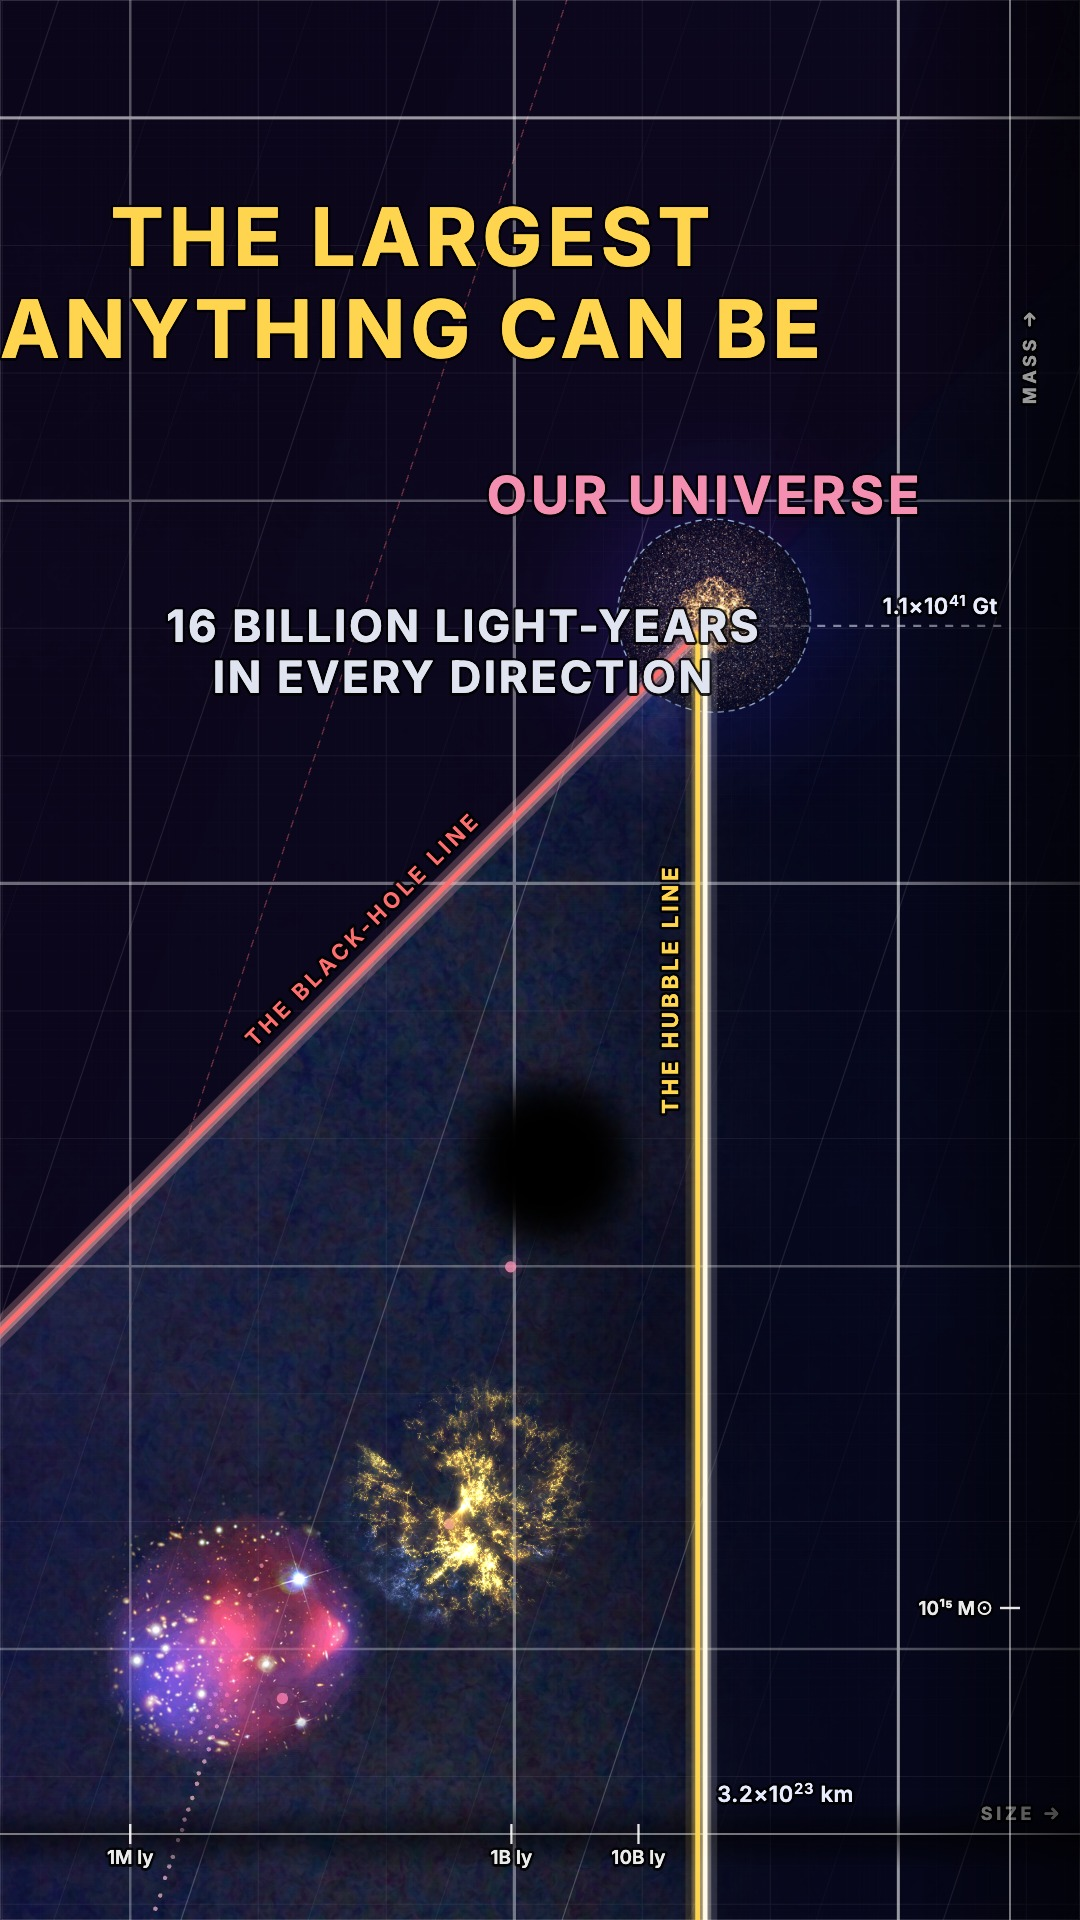
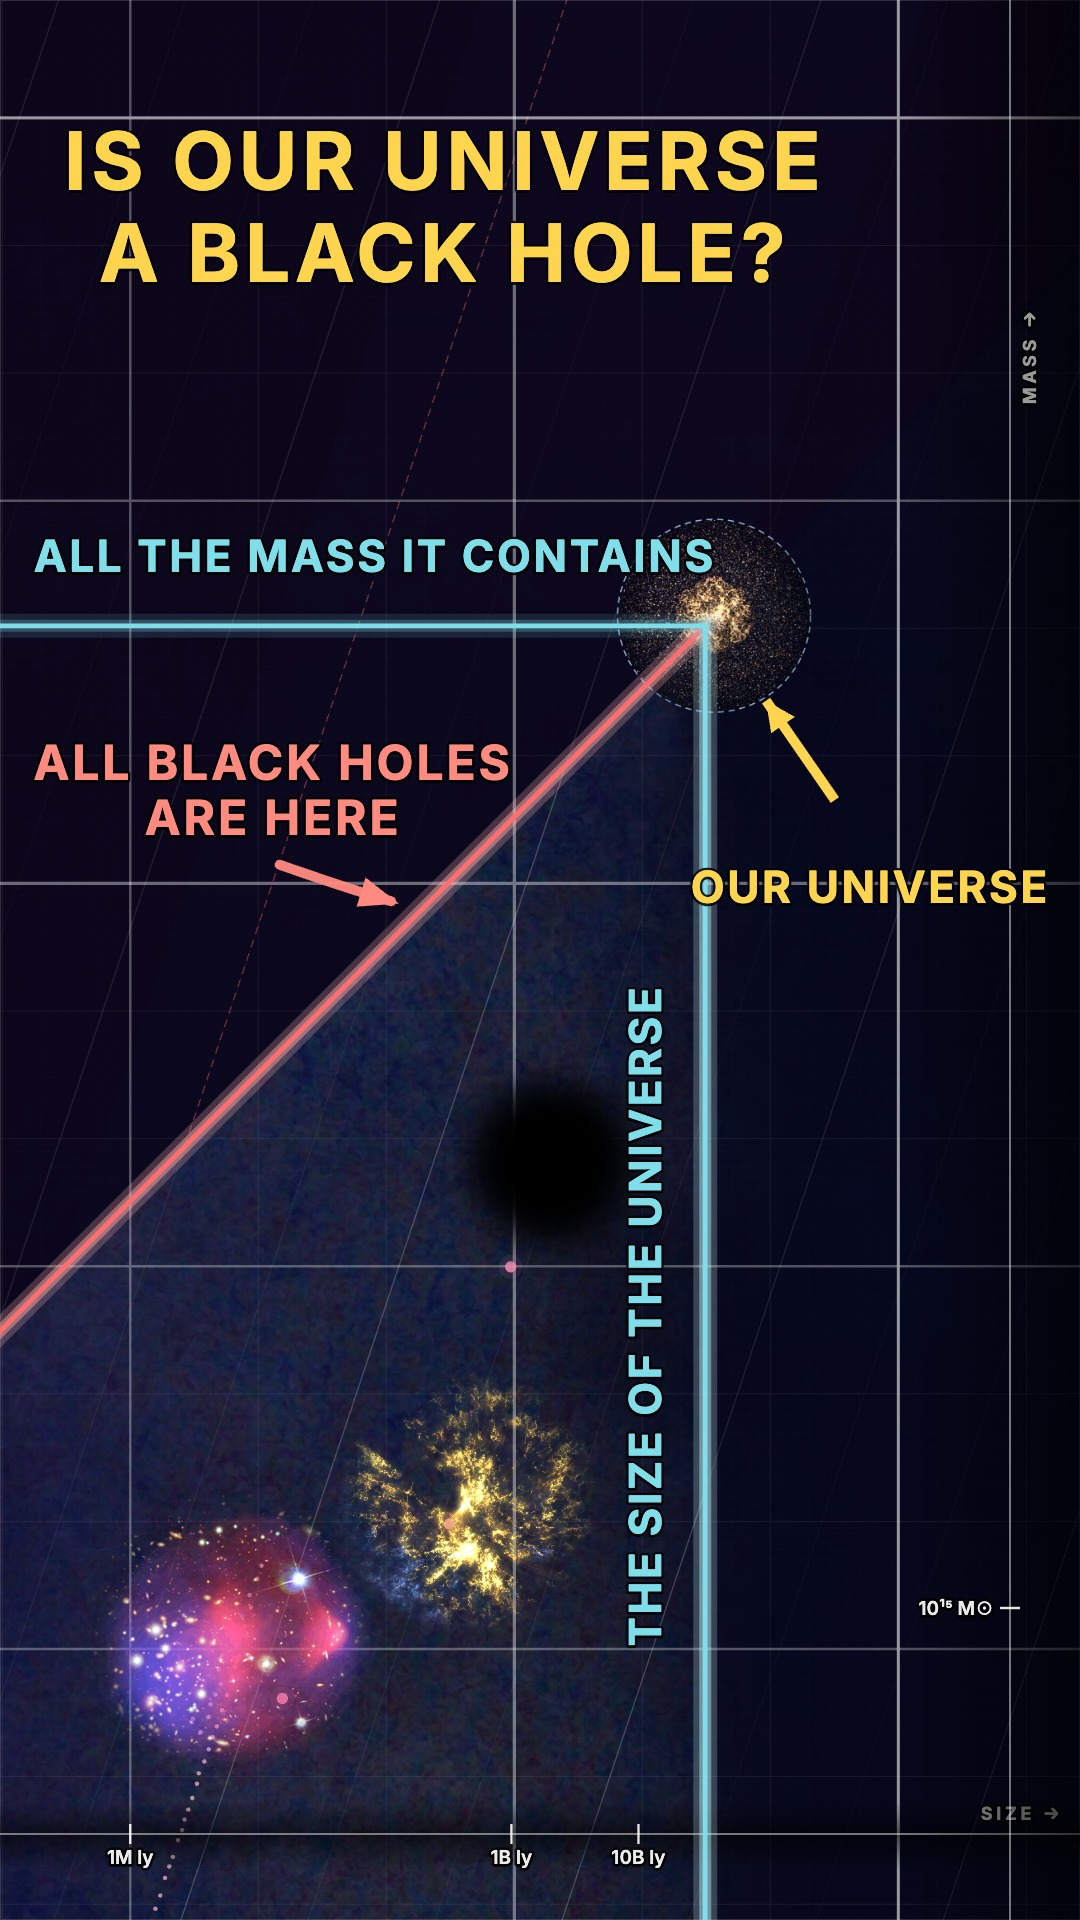
5b: "Is Our Universe a Black Hole?", and its thumbnail around the black-hole line (the author, 2026-11-11, 15:50)

diff --git a/src/narration-scenes/short-05b-hubble-sphere.js b/src/narration-scenes/short-05b-hubble-sphere.js
@@ -55,15 +55,23 @@ export default {
   // the de Sitter radius's dotted line (where the horizon ends up, in hundreds of billions of years) left off: beside
   // the cosmic event horizon it reads as a second one (the author, 2026-11-10)
   deSitter: false,
-  // the YouTube thumbnail (scripts/narration-poster.mjs, 2026-11-11): the triangle's apex, our universe on the
-  // black-hole line at the horizon, the Hubble line, and the question the video opens with
+  // the YouTube thumbnail (scripts/narration-poster.mjs; the author, 2026-11-11, 15:50: "Is our universe a black hole?",
+  // the black-hole line with an arrow "all black holes are here", an arrow "our universe", and two lines from it,
+  // "the size of the universe" down and "all the mass it contains" across)
   poster: { at: 3, cues: [{ t: 0, cam: { r: 26.9, m: 53.4, span: 8.5 }, dur: 0.1, drift: 0, hideIcons: null, forceIcons: [HS], hl: [
     { line: "triangle" },
-    { ...SCHW, label: "the black-hole line", instant: true },
-    { line: "hubble", label: "the Hubble line", instant: true },
-    { obj: HS, label: "our universe", place: "above", labelSize: 26, instant: true },
-    { text: "16 billion light-years\nin every direction", at: [26.3, 55.7], size: 22, color: "#e0e3f0", instant: true },
-    { text: "the largest\nanything can be", at: [25.9, 58.5], size: 40, color: "#ffd54f", instant: true },
+    { ...SCHW, instant: true },
+    { text: "is our universe\na black hole?", at: [26.15, 59.1], size: 40, color: "#ffd54f", instant: true },
+    // the two readings of our universe's dot: across to the mass axis, down to the size axis
+    { trend: [[22.65, 56.03], [28.2, 56.03]], color: "#80deea", instant: true },
+    { trend: [[28.2, 56.03], [28.2, 45.8]], color: "#80deea", instant: true },
+    { text: "all the mass it contains", at: [25.6, 56.45], size: 22, color: "#80deea", instant: true },
+    { text: "the size of the universe", at: [27.85, 50.6], size: 22, color: "#80deea", rotate: -90, instant: true },
+    // the arrows and their words
+    { text: "all black holes\nare here", at: [24.8, 54.6], size: 24, color: "#ff8a80", instant: true },
+    { arrow: true, width: 5, color: "#ff8a80", from: { r: 24.85, m: 54.15 }, via: [[25.35, 53.98]], to: { r: 26.0, m: 53.78 }, draw: 0.01 },
+    { text: "our universe", at: [29.5, 53.85], size: 22, color: "#ffd54f", instant: true },
+    { arrow: true, solid: true, width: 5, color: "#ffd54f", from: { r: 29.4, m: 54.4 }, to: { r: 28.5, m: 55.7 }, draw: 0.01 },
   ] }] },
   cues: [
     { at: "largest anything can be", cam: FULL, dur: 3, hl: [{ line: "triangle" }] },

diff --git a/video/sources/2026-11-11/NOTES.md b/video/sources/2026-11-11/NOTES.md
@@ -484,3 +484,6 @@ individually as if cutting a cake. Other than that it's ready to be scheduled to
   upload's voice is the committed cut.
 - 5d: the author's new Observable Universe script, written in the shared doc, is saved in
   video/scripts/recording-scripts.md as `short-05d-observable-universe`, to record; 5c stays as it is.
+- 15:50, the author: the title is "Is Our Universe a Black Hole?" (youtube.json), and the thumbnail is the black-hole
+  line with "all black holes are here", an arrow "our universe" to its dot, and two lines from the dot, down "the size
+  of the universe" and across "all the mass it contains".
